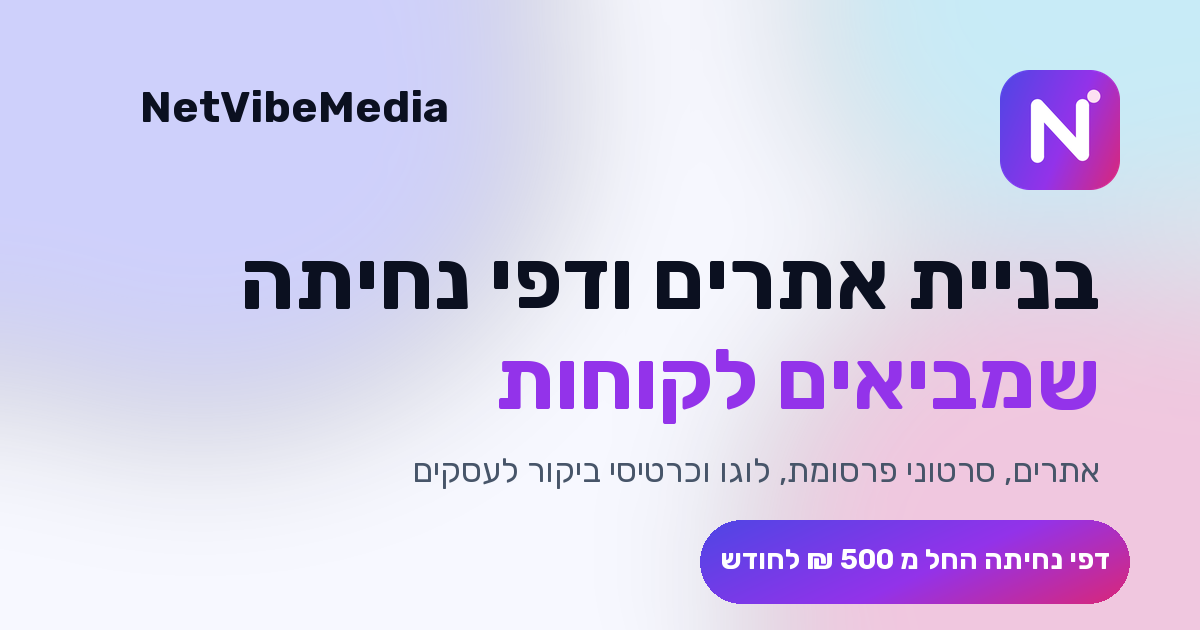
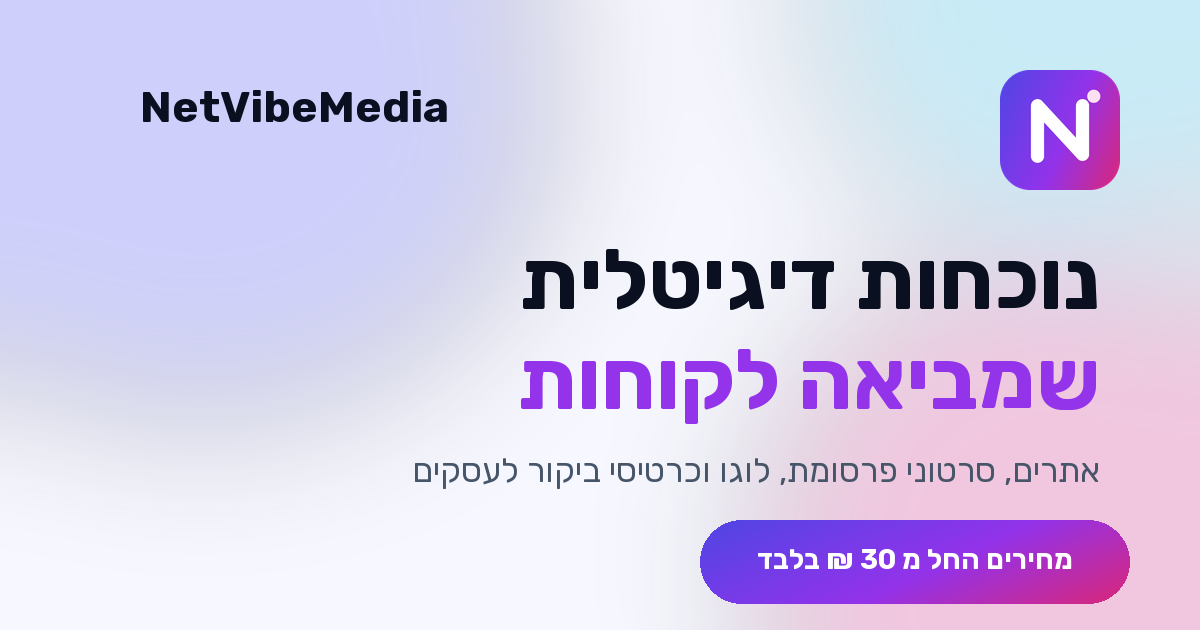
New headline: digital presence (not only sites/landing pages)

Changed region(s): [[0.185, 0.3921, 0.925, 0.5127], [0.4008, 0.5429, 0.7092, 0.6937], [0.5858, 0.8746, 0.925, 0.9048]]

diff --git a/index.html b/index.html
@@ -3,8 +3,8 @@
 <head>
 <meta charset="UTF-8">
 <meta name="viewport" content="width=device-width, initial-scale=1, viewport-fit=cover">
-<title>NetVibeMedia – בניית אתרים ודפי נחיתה מ-500 ₪ לחודש</title>
-<meta name="description" content="NetVibeMedia: בניית אתרים ודפי נחיתה שמביאים לקוחות – דף נחיתה 500 ₪ לחודש, אתר תדמית 700 ₪ לחודש, סרטוני פרסומת מ-250 ₪ עיצוב כרטיס ביקור 50 ₪ ולוגו 30 ₪. כולל SEO, נגישות ואחסון.">
+<title>NetVibeMedia – אתרים, סרטוני פרסומת, לוגו וכרטיסי ביקור לעסקים</title>
+<meta name="description" content="NetVibeMedia: נוכחות דיגיטלית שמביאה לקוחות – אתרים, סרטוני פרסומת, לוגו וכרטיסי ביקור – דף נחיתה 500 ₪ לחודש, אתר תדמית 700 ₪ לחודש, סרטוני פרסומת מ-250 ₪ עיצוב כרטיס ביקור 50 ₪ ולוגו 30 ₪. כולל SEO, נגישות ואחסון.">
 <meta name="keywords" content="NetVibeMedia, בניית אתרים, דף נחיתה, בניית דף נחיתה, אתר תדמית, סרטוני פרסומת, סרטון פרסומת, עיצוב כרטיס ביקור, קידום אתרים, SEO">
 <meta name="author" content="NetVibeMedia">
 <meta name="robots" content="index, follow, max-image-preview:large, max-snippet:-1, max-video-preview:-1">
@@ -22,14 +22,14 @@
 <meta property="og:site_name" content="NetVibeMedia">
 <meta property="og:locale" content="he_IL">
 <meta property="og:url" content="https://nn-sites.github.io/NetVibeMedia/">
-<meta property="og:title" content="NetVibeMedia – בניית אתרים ודפי נחיתה שמביאים לקוחות">
+<meta property="og:title" content="NetVibeMedia – נוכחות דיגיטלית שמביאה לקוחות">
 <meta property="og:description" content="דף נחיתה 500 ₪ לחודש · אתר תדמית 700 ₪ לחודש · סרטוני פרסומת מ-250 ₪ · כרטיס ביקור 50 ₪.">
 <meta property="og:image" content="https://nn-sites.github.io/NetVibeMedia/og-image.png">
 <meta property="og:image:width" content="1200">
 <meta property="og:image:height" content="630">
 <meta property="og:image:alt" content="NetVibeMedia, בניית אתרים ודפי נחיתה">
 <meta name="twitter:card" content="summary_large_image">
-<meta name="twitter:title" content="NetVibeMedia – בניית אתרים ודפי נחיתה">
+<meta name="twitter:title" content="NetVibeMedia – אתרים, סרטונים ועיצוב לעסקים">
 <meta name="twitter:description" content="דף נחיתה 500 ₪ לחודש · אתר תדמית 700 ₪ לחודש · סרטוני פרסומת מ-250 ₪ · כרטיס ביקור 50 ₪.">
 <meta name="twitter:image" content="https://nn-sites.github.io/NetVibeMedia/og-image.png">
 
@@ -60,7 +60,7 @@
       "@type": "WebPage",
       "@id": "https://nn-sites.github.io/NetVibeMedia/#webpage",
       "url": "https://nn-sites.github.io/NetVibeMedia/",
-      "name": "NetVibeMedia – בניית אתרים ודפי נחיתה מ-500 ₪ לחודש",
+      "name": "NetVibeMedia – אתרים, סרטוני פרסומת, לוגו וכרטיסי ביקור לעסקים",
       "description": "בניית אתרים ודפי נחיתה, סרטוני פרסומת ועיצוב כרטיסי ביקור לעסקים בישראל.",
       "inLanguage": "he-IL",
       "isPartOf": {
@@ -390,7 +390,7 @@
     <div class="wrap hero-grid">
       <div>
         <p class="eyebrow reveal"><span class="dot" aria-hidden="true"></span> סטודיו דיגיטלי · אתרים, סרטוני פרסומת ועיצוב</p>
-        <h1 id="hero-title" class="reveal d1">אתרים ודפי נחיתה<br><span class="grad-text">שמביאים לקוחות</span></h1>
+        <h1 id="hero-title" class="reveal d1">נוכחות דיגיטלית<br><span class="grad-text">שמביאה לקוחות</span></h1>
         <p class="lead reveal d2">NetVibeMedia בונה לעסק שלכם נוכחות דיגיטלית מנצחת: <strong>דף נחיתה ב-500 ₪ לחודש</strong>, <strong>אתר תדמית ב-700 ₪ לחודש</strong>, <strong>סרטוני פרסומת</strong> ו<strong>כרטיסי ביקור</strong> – הכול במקום אחד, בלי דמי הקמה ובלי התחייבות.</p>
         <div class="hero-cta reveal d3">
           <a class="btn btn-primary" href="#contact">אני רוצה הצעה <svg class="icon" aria-hidden="true"><use href="#i-arrow"/></svg></a>
